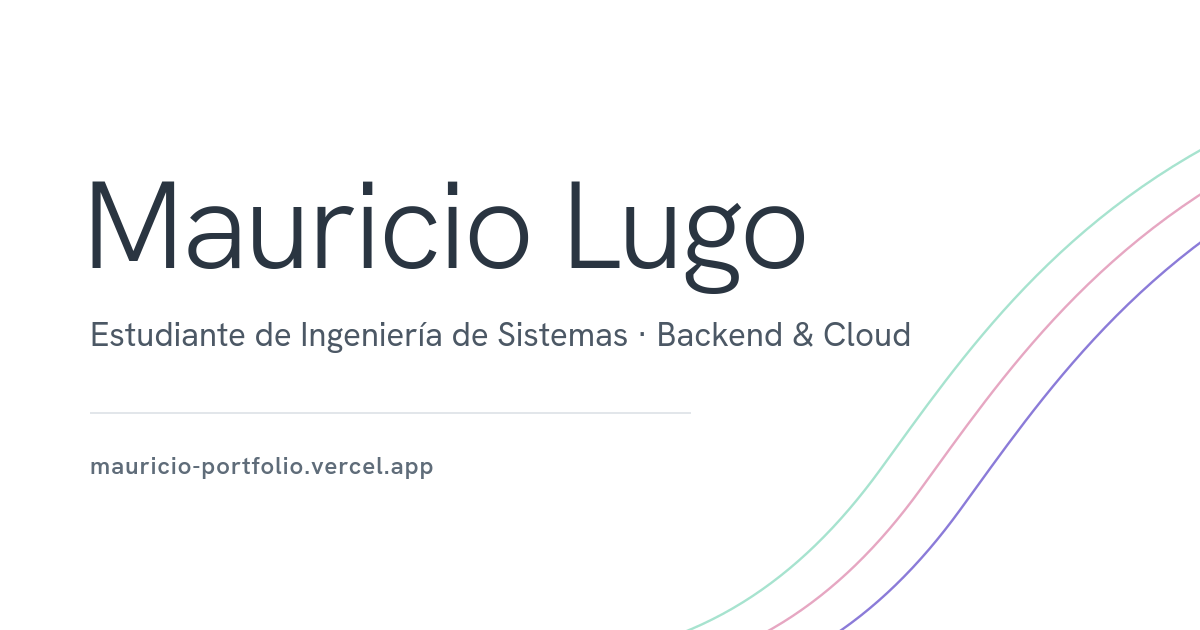
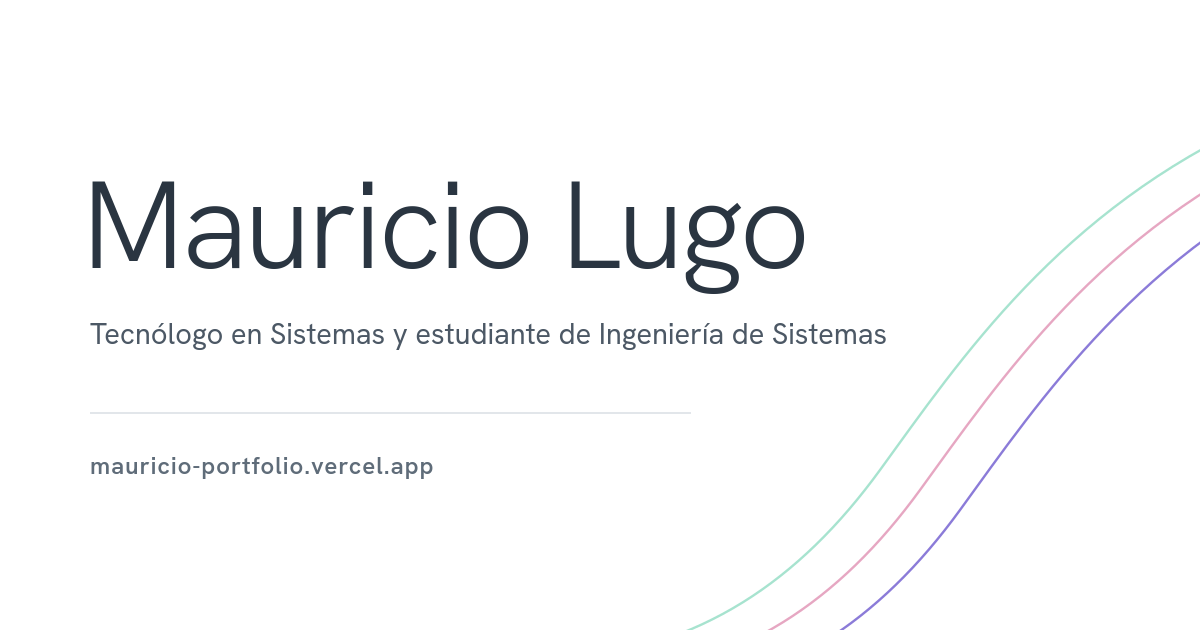
Actualizar el contenido con el CV y fijar Astro en Vercel
Contenido (a partir del CV):
- Título: tecnólogo en sistemas y estudiante de Ingeniería de Sistemas
- Hero reestructurado: descripción y datos en filas tipo ficha
- Experiencia: cargo, ubicación y logros alineados con el CV
- Proyectos: proyecto de grado y FinCapX actualizados; Claude Code en los
  proyectos donde se usó; RNI con fecha 2025
- Tecnologías reagrupadas en cuatro categorías, sin redundancias
- Subtítulos de sección más directos
- SEO y navegación coherentes con el título nuevo; imagen para compartir
  regenerada
- Se quita el teléfono y los campos que el sitio no usaba

Despliegue:
- vercel.json fija el framework en Astro, porque el proyecto de Vercel se
  creó para Next.js

Claude-Session: https://claude.ai/code/session_01AV1oesFGv71Trs29DYcb7t

Changed region(s): [[0.0617, 0.5127, 0.7708, 0.573]]

diff --git a/src/types.ts b/src/types.ts
@@ -3,50 +3,40 @@
 export interface Personal {
   name: string
   title: string
-  tagline: string
-  /** Frase del Hero; `**así**` marca el texto con más peso. */
-  mission: string
+  /** Descripción del Hero, bajo el título. */
+  summary: string
   /** Valor de «enfoque» en el Hero. */
   focus: string
-  bio: string
   location: string
   locationDetail: string
   availability: string
   avatar: string
   email: string
-  phone: string
   social: { github: string; linkedin: string; website: string }
   cv: { url: string; title: string; description: string }
-  highlights: string[]
 }
 
 export interface Project {
-  id: string
   title: string
   description: string
-  longDescription: string
+  /** Texto largo; solo lo muestra el proyecto principal. */
+  longDescription?: string
   tags: string[]
-  category: string
   featured: boolean
   inDevelopment: boolean
   isGroupProject: boolean
   private?: boolean
-  links: { github?: string; demo?: string }
   year: string
+  links: { github?: string; demo?: string }
 }
 
 export interface ExperienceEntry {
-  id: string
   company: string
   position: string
   duration: string
   durationShort: string
-  description: string
   achievements: string[]
   technologies: string[]
-  type: string
-  current: boolean
-  featured: boolean
 }
 
 export interface Certification {
@@ -65,11 +55,8 @@ export interface CertificationInProgress {
 }
 
 export interface SkillCategory {
-  id: string
   name: string
-  icon: string
   order: number
-  featured: boolean
   skills: string[]
 }
 

diff --git a/DESIGN.md b/DESIGN.md
@@ -148,7 +148,7 @@ Paleta acromática de pizarra sobre blanco, con un único acento violeta oscurec
 ### Named Rules
 **The Thread-Only Rule.** El color de matiz (menta, rosa, violeta) solo existe como trazo de 1px; nunca como relleno de superficie, fondo de chip ni color de texto.
 
-**The Weight-Not-Hue Rule.** El énfasis en texto se hace con peso (por ejemplo `strong` a 600 en la misión del hero), no con color.
+**The Weight-Not-Hue Rule.** El énfasis en texto se hace con peso, no con color.
 
 **The Quiet Accent Rule.** El violeta oscurecido aparece solo en estados interactivos y de foco; en reposo la página es acromática.
 
@@ -164,7 +164,7 @@ Paleta acromática de pizarra sobre blanco, con un único acento violeta oscurec
 - **Display** (300, clamp(3rem, 1.5rem + 6.4vw, 6rem), 1, -0.03em): solo el nombre en el hero, máx. 11ch.
 - **Headline** (300, clamp(1.875rem, 1.45rem + 1.9vw, 2.75rem), 1.1, -0.02em): título de cada sección.
 - **Title** (500, `--fs-h3` clamp(1.375rem, 1.25rem + 0.55vw, 1.75rem), 1.2, -0.01em): títulos de ítems; el proyecto principal sube a 400 y a `--fs-feature` clamp(1.625rem, 1.3rem + 1.3vw, 2.375rem). En Certificaciones baja a clamp(1.25rem, 1.15rem + 0.45vw, 1.5rem).
-- **Lead** (400, `--fs-lead` clamp(1.25rem, 1.12rem + 0.55vw, 1.5rem), 1.4 a 1.5): rol y misión del hero, disponibilidad en Contacto.
+- **Lead** (400, `--fs-lead` clamp(1.25rem, 1.12rem + 0.55vw, 1.5rem), 1.4 a 1.5): rol del hero y disponibilidad en Contacto.
 - **Body** (400, `--fs-base` clamp(1.0625rem, 1.02rem + 0.2vw, 1.1875rem), 1.65): texto general; subtítulo de sección en 44ch máx.
 - **Body-sm** (400, `--fs-sm` 0.9375rem, 1.5 a 1.6): logros, descripciones, listas, enlaces con flecha (a 500).
 - **Label** (600, `--fs-xs` 0.8125rem, 0.12em, mayúsculas, ink-3): fechas y metadatos (`.meta`, también en las marcas de proyecto).
